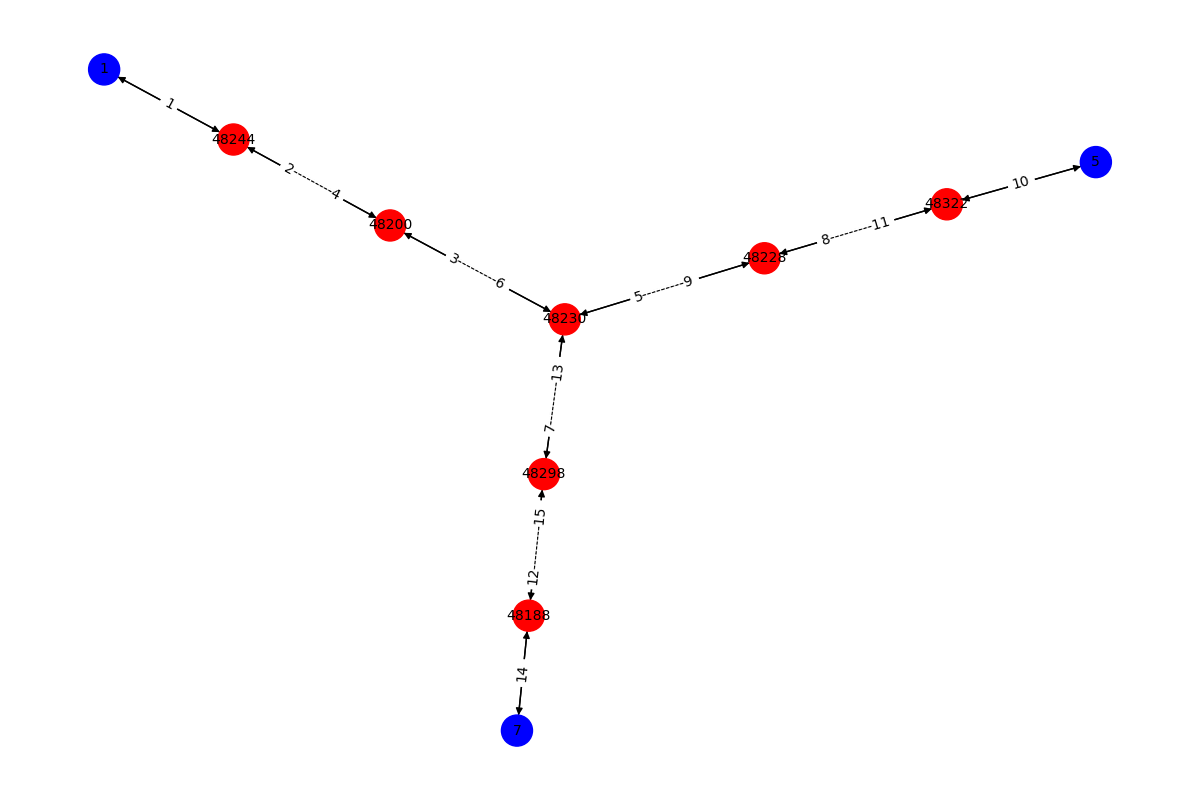
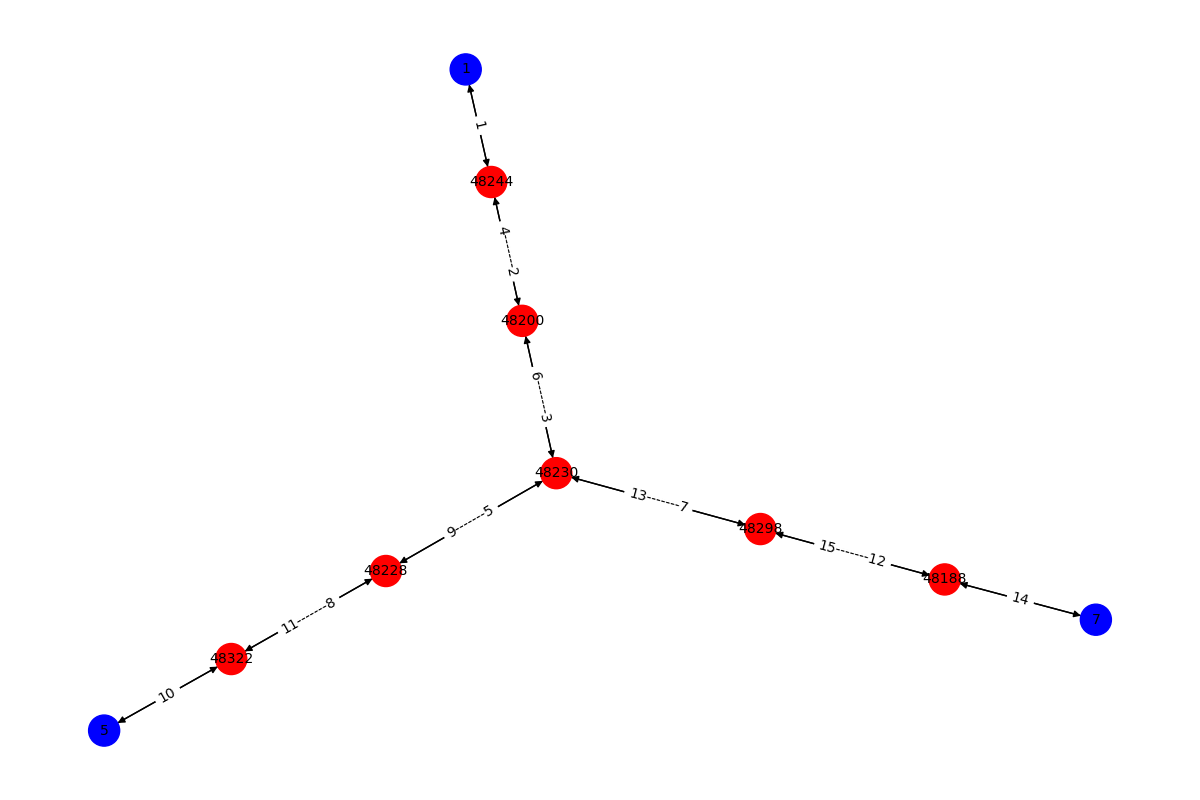
Find bug in showing ports on topology figure

diff --git a/FPSDN/FPSDN.py b/FPSDN/FPSDN.py
@@ -119,11 +119,16 @@ def save_topo_graph(topo, ports,path):
     
     # Prepare edge labels with port information
     edge_labels = {}
+    checker = []
     for edge in G.edges():
+        # TODO BUG
+        # print(edge)
         # Ports are typically given for both directions
         src, dst = edge
         if (src, dst) in ports and (dst, src) in ports:
-            edge_labels[edge] = f"{ports[(dst, src)]}-------{ports[(src, dst)]}"
+            if f"{ports[(dst, src)]}-------{ports[(src, dst)]}" not in checker:
+                edge_labels[edge] = f"{ports[(dst, src)]}-------{ports[(src, dst)]}"
+                checker.append(f"{ports[(src, dst)]}-------{ports[(dst, src)]}")
         elif (src, dst) in ports:
             edge_labels[edge] = f"{ports[(src, dst)]}"
         elif (dst, src) in ports:
